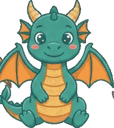
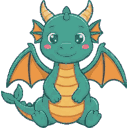
Repair the dragon sprites and colour each flier to match its table
Dragons 6-10 were clipped by the original grid slicing (wing tips and
tails cut off), 6, 8 and 9 kept a trapped patch of the checkerboard
background as a white blob, and 7, 9 and 10 carried fragments of their
neighbours. All twelve hatchlings share one drawing, so 6-10 are rebuilt
from dragon 2 with only the hide recoloured to each one's palette.

Front sprites now sit on a uniform 128px square canvas; they were
114-126px wide but drawn as 128x128, stretching them sideways.

The sky flier was hue-rotated in CSS, which spun the orange wings and
golden belly along with the body. It is replaced by one recoloured flier
per table, matched to that table's hatchling. Tile dragons are also
centred rather than sitting flush left.

Claude-Session: https://claude.ai/code/session_012WATirc92sFaaVwG8QrirT

diff --git a/multiplicationfluency/src/app.js b/multiplicationfluency/src/app.js
@@ -368,26 +368,19 @@
     };
   }
 
-  /* Drawn artwork, one file per times table (art/dragon-01..12.png), each a
-   * front-facing hatchling looking out at you — used on tiles and sidelines.
-   * The side-on flier for the sky exists only in the artwork's own teal, so it
-   * is hue-rotated to sit near its table's colour. */
+  /* Drawn artwork, two files per times table: a front-facing hatchling looking
+   * out at you (art/dragon-01..12.png) for tiles and sidelines, and a side-on
+   * flier in the same colours (art/dragon-fly-01..12.png) for the sky. */
   const FRONT = { w: 128, h: 128 };
-  const FLY = { src: 'art/dragon-fly.png', w: 128, h: 100 };
-
-  /* Degrees to turn the teal flier by so it roughly matches each table's
-   * dragon. Index is table - 1. */
-  const FLY_TURN = [157, 25, 310, 207, 87, 337, 150, 5, 285, 70, 5, 0];
+  const FLY = { w: 128, h: 100 };
 
   function dragonArt(t, w, pose) {
-    const idx = ((t - 1) % 12 + 12) % 12;
+    const n = String(((t - 1) % 12 + 12) % 12 + 1).padStart(2, '0');
     const fly = pose === 'fly';
-    const src = fly ? FLY.src : 'art/dragon-' + String(idx + 1).padStart(2, '0') + '.png';
     const shape = fly ? FLY : FRONT;
-    const turn = fly ? FLY_TURN[idx] : 0;
-    return '<img class="dragon" src="' + src + '" alt="" aria-hidden="true" ' +
-      'width="' + w + '" height="' + Math.round(w * shape.h / shape.w) + '"' +
-      (turn ? ' style="filter:hue-rotate(' + turn + 'deg)"' : '') + '>';
+    return '<img class="dragon" src="art/dragon-' + (fly ? 'fly-' : '') + n + '.png" ' +
+      'alt="" aria-hidden="true" ' +
+      'width="' + w + '" height="' + Math.round(w * shape.h / shape.w) + '">';
   }
 
   function eggArt(t, w) {

diff --git a/multiplicationfluency/index.html b/multiplicationfluency/index.html
@@ -355,9 +355,7 @@
 
   /* ---- drawn dragons ---- */
   .dragon{ display:block; max-width:none; }
-  /* The artwork is teal; each table's dragon is that hue rotated, applied
-     inline per image. */
-  .face.art img{ display:block; }
+  .face.art img{ display:block; margin:0 auto; }
   .wing img{ display:block; }
 
   /* ---- cheering squad ---- */

diff --git a/multiplicationfluency/README.md b/multiplicationfluency/README.md
@@ -234,11 +234,15 @@ ones**, built from what just happened.
 The dragons in `art/` are commissioned artwork owned by this project, generated
 to order and licensed with the rest of the repository. There is one front-facing
 hatchling per times table (`dragon-01.png` … `dragon-12.png`), used on the
-menagerie tiles and the sidelines where they look out at you, plus a single
-side-on flier (`dragon-fly.png`) for the sky, hue-rotated per table to sit near
-its dragon's colour. Each sprite is trimmed to the artwork, reduced to 128px
-wide — three times its largest on-screen size, so it stays sharp on retina — and
-palette-compressed; the whole set is around 100KB.
+menagerie tiles and the sidelines where they look out at you, plus a side-on
+flier in the same colours (`dragon-fly-01.png` … `dragon-fly-12.png`) for the
+sky. All twelve hatchlings share one drawing, so the ones whose source was
+clipped (6–10) are rebuilt from dragon 2 recoloured to their own palette, and
+the fliers are recoloured from a single drawing the same way — only the hide
+changes, so the orange wings and golden belly stay put. Front sprites sit on a
+uniform 128px square canvas and fliers on 128×100 — three times their largest
+on-screen size, so they stay sharp on retina — palette-compressed; the whole
+set is around 100KB.
 
 The eggs are still inline SVG, and the companions are plain Unicode emoji, so
 they render in whatever style the reader's platform ships.
